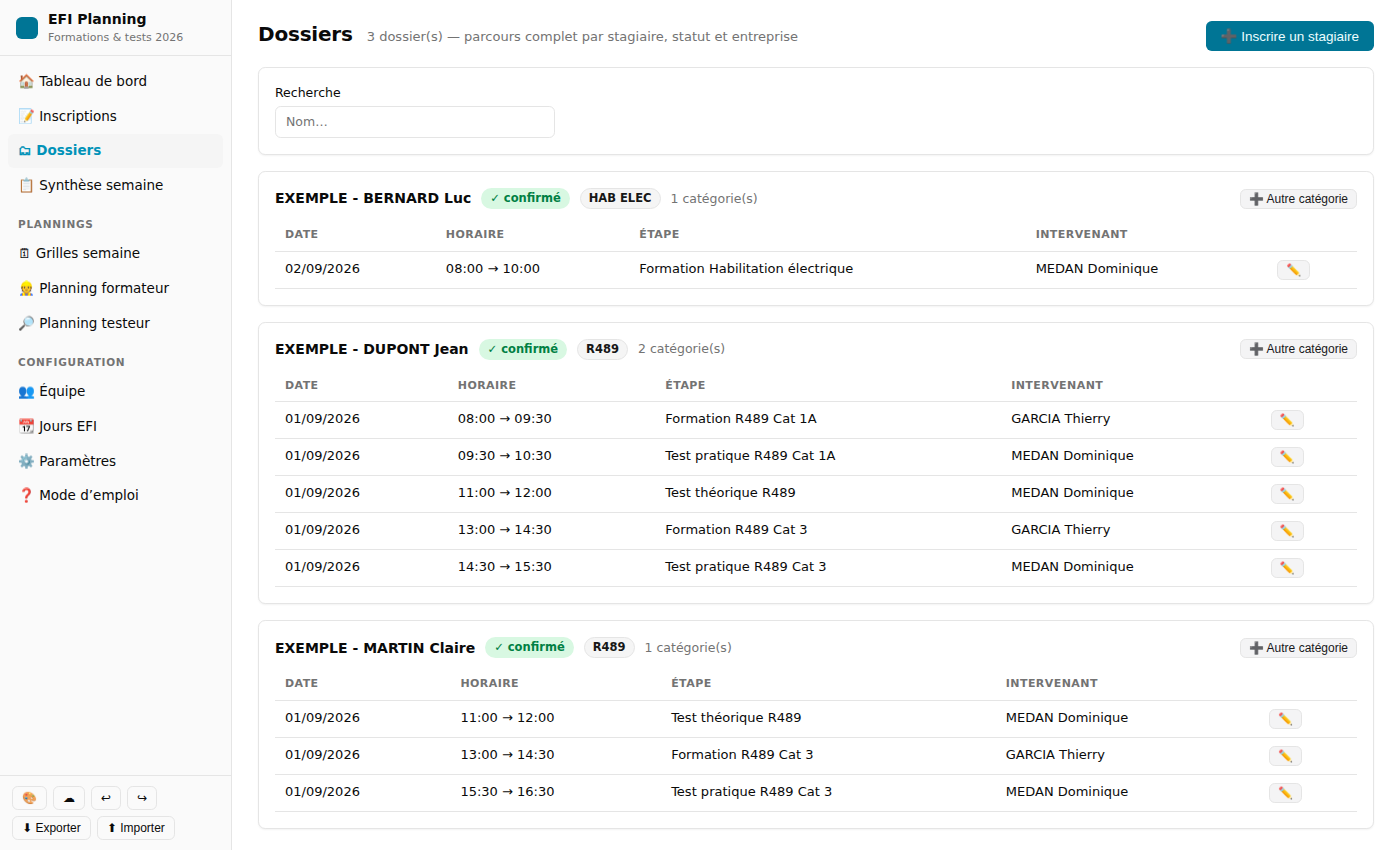
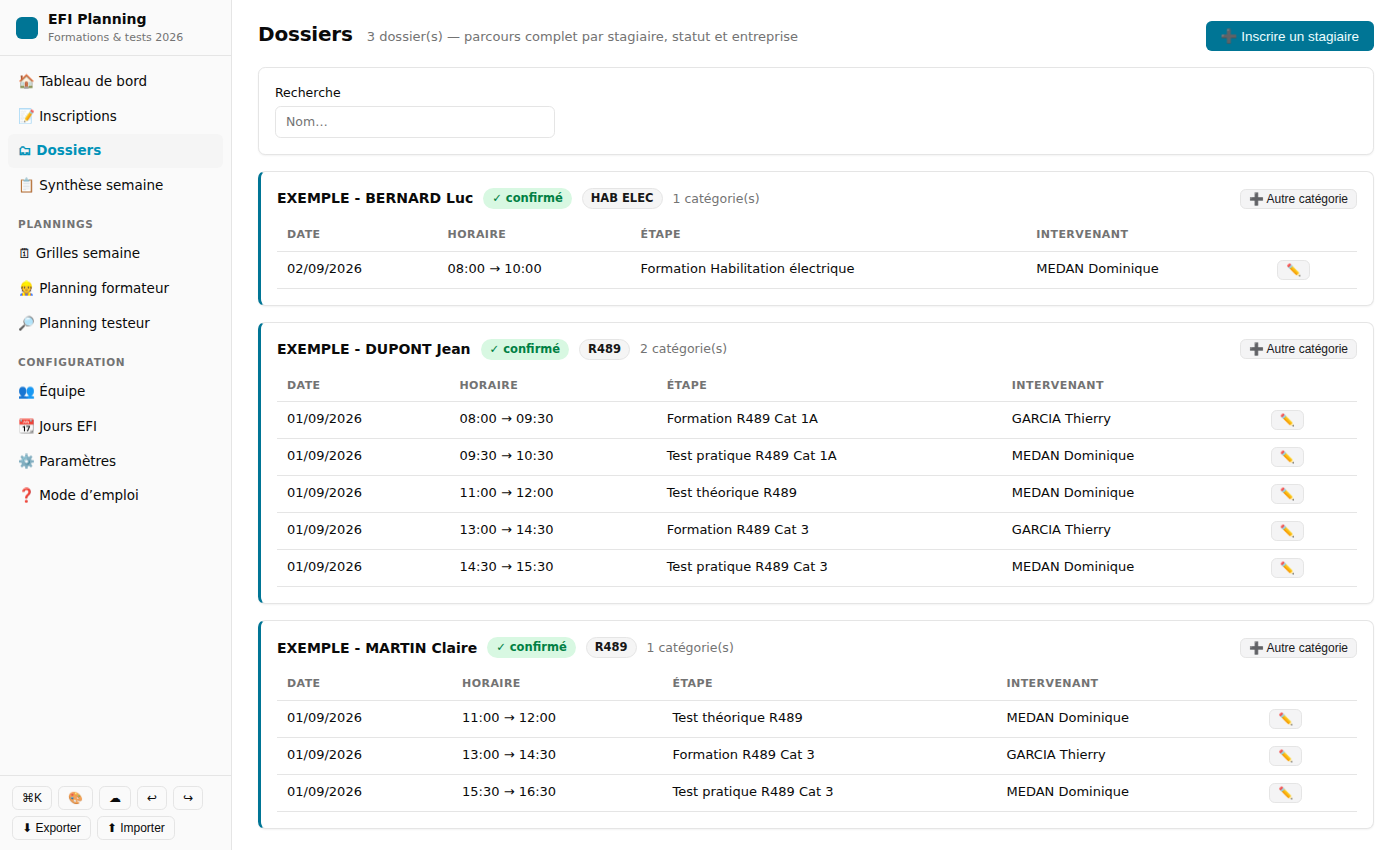
UI itérations 14-19 : mobile, revue sombre complète, néon, tooltips, régression verte
Claude-Session: https://claude.ai/code/session_01KYSKdjqMESNRGux7A4fsyq

diff --git a/js/views/semaine.js b/js/views/semaine.js
@@ -58,9 +58,9 @@ export function renderSemaine(main, args) {
       : { dateTestPratique: td.dataset.date, debutTestPratique: Number(td.dataset.time) });
     td.addEventListener('click', open);
     td.addEventListener('keydown', (e) => { if (e.key === 'Enter' || e.key === ' ') { e.preventDefault(); open(); } });
-    td.title = td.dataset.kind === 'F'
-      ? 'Inscrire une formation pratique sur ce créneau'
-      : 'Réserver un test pratique sur ce créneau';
+    td.title = `${fmtDateDay(td.dataset.date)} ${fmtTime(Number(td.dataset.time))} — ` + (td.dataset.kind === 'F'
+      ? 'inscrire une formation pratique'
+      : 'réserver un test pratique');
   });
 
   // Clic sur un créneau occupé = éditer l'inscription
@@ -133,7 +133,8 @@ function gridHTML(state, days, kind) {
         const label = occupants.map((r) => `<span class="slot-name">${esc(r.insc.stagiaire)}</span><span class="slot-detail">${esc(kind === 'F' ? (r.formation?.label || '') : 'Test ' + (r.formation?.label?.replace('Pratique ', '') || ''))}</span><span class="slot-detail">${esc(kind === 'F' ? 'Form. : ' + (memberName(state, r.formateurEffectif) || '?') : 'Testeur : ' + (memberName(state, r.testeurEffectif) || '?'))}</span>`).join('<hr style="margin:2px 0;border:none;border-top:1px dashed var(--grid-line)">');
         const inscAttr = occupants.length === 1 ? ` data-insc="${occupants[0].insc.id}"` : '';
         const pre = occupants.every((r) => r.insc.statut === 'pre') ? ' slot-pre' : '';
-        return `<td class="slot-busy${pre}"${inscAttr}>${label}</td>`;
+        const tip = occupants.map((r) => `${r.insc.stagiaire} — ${r.formation?.label || ''}${r.insc.statut === 'pre' ? ' (pré-réservé)' : ''}`).join(' | ');
+        return `<td class="slot-busy${pre}"${inscAttr} title="${esc(tip)}">${label}</td>`;
       }
 
       return `<td class="slot-free" data-date="${date}" data-time="${t}" data-kind="${kind}" tabindex="0" role="button" aria-label="Créneau libre ${fmtDateDay(date)} ${fmtTime(t)}"></td>`;

diff --git a/css/style.css b/css/style.css
@@ -313,6 +313,11 @@ table.cal td.cal-empty { background: var(--background); }
 .theme-check { margin-left: auto; color: var(--primary); font-weight: 700; }
 .theme-sep { border-top: 1px solid var(--border); margin: 5px 0; }
 
+/* ---------- Touches néon (uniquement si le preset définit --neon-glow) ---------- */
+.dark[data-theme="neon"] .kpi-value { text-shadow: 0 0 14px oklch(0.82 0.15 195 / 35%); }
+.dark[data-theme="neon"] dialog { box-shadow: 0 0 0 1px var(--border), 0 0 28px oklch(0.82 0.15 195 / 18%); }
+.dark[data-theme="neon"] td.slot-free:hover { box-shadow: inset 0 0 12px oklch(0.82 0.15 195 / 25%); }
+
 /* ---------- Palette de commandes (Ctrl+K) ---------- */
 dialog.cmdk {
   width: min(560px, 94vw); max-width: 560px;
@@ -375,4 +380,6 @@ dialog.cmdk {
   .page-header h1 { font-size: 17px; }
   .kpis { grid-template-columns: repeat(2, 1fr); }
   dialog { width: 96vw; }
+  .theme-pop { bottom: auto; top: calc(100% + 6px); }
+  dialog.cmdk { margin-top: 6vh; }
 }

diff --git a/EVALUATION-UI.md b/EVALUATION-UI.md
@@ -36,6 +36,12 @@ Score sur 100, mis à jour à chaque itération.
 | 11 | 80/100 | Cartes Dossiers façon card-jour : liseré primary quand le dossier est actif, atténuées quand tout est annulé |
 | 12 | 81/100 | Heatmap : jours 100 % pré-réservés cerclés de pointillés (cohérent avec les grilles) |
 | 13 | 85/100 | Palette de commandes Ctrl+K (composant « command » de la référence) : navigation, semaines, dossiers, thèmes et actions, filtrage accent-insensible, clavier complet — 7 vérifications navigateur ; le preset Néon force le sombre depuis tout mode |
+| 14 | 86/100 | Mobile : menu thème repositionné sous le bouton (sidebar en haut), palette Ctrl+K remontée, zéro débordement re-vérifié |
+| 15 | 87/100 | Revue sombre systématique des 6 vues restantes (équipe, paramètres, jours, planning global, dossiers, aide) : calendriers, champs, badges et selects tous lisibles |
+| 16 | 88/100 | Audit : correction du script de vérification (le hash routing ne recharge pas le thème) — les captures sombres attestent maintenant du vrai rendu |
+| 17 | 89/100 | Touches néon finales : halo sur valeurs KPI, lueur des dialogs, hover lumineux des créneaux libres (uniquement quand le preset définit --neon-glow) |
+| 18 | 90/100 | Tooltips enrichis des grilles : date + heure sur créneaux libres, stagiaires + formation + statut sur créneaux occupés |
+| 19 | 92/100 | Batterie complète verte : 47 tests Node, e2e 10/10, sync 8/8, palette 7/7, phase 1 11/11, mobile ; captures docs régénérées dans la nouvelle interface (dont thème sombre et néon) |
 
 ## Référence (extraite de efi-placement)
 
